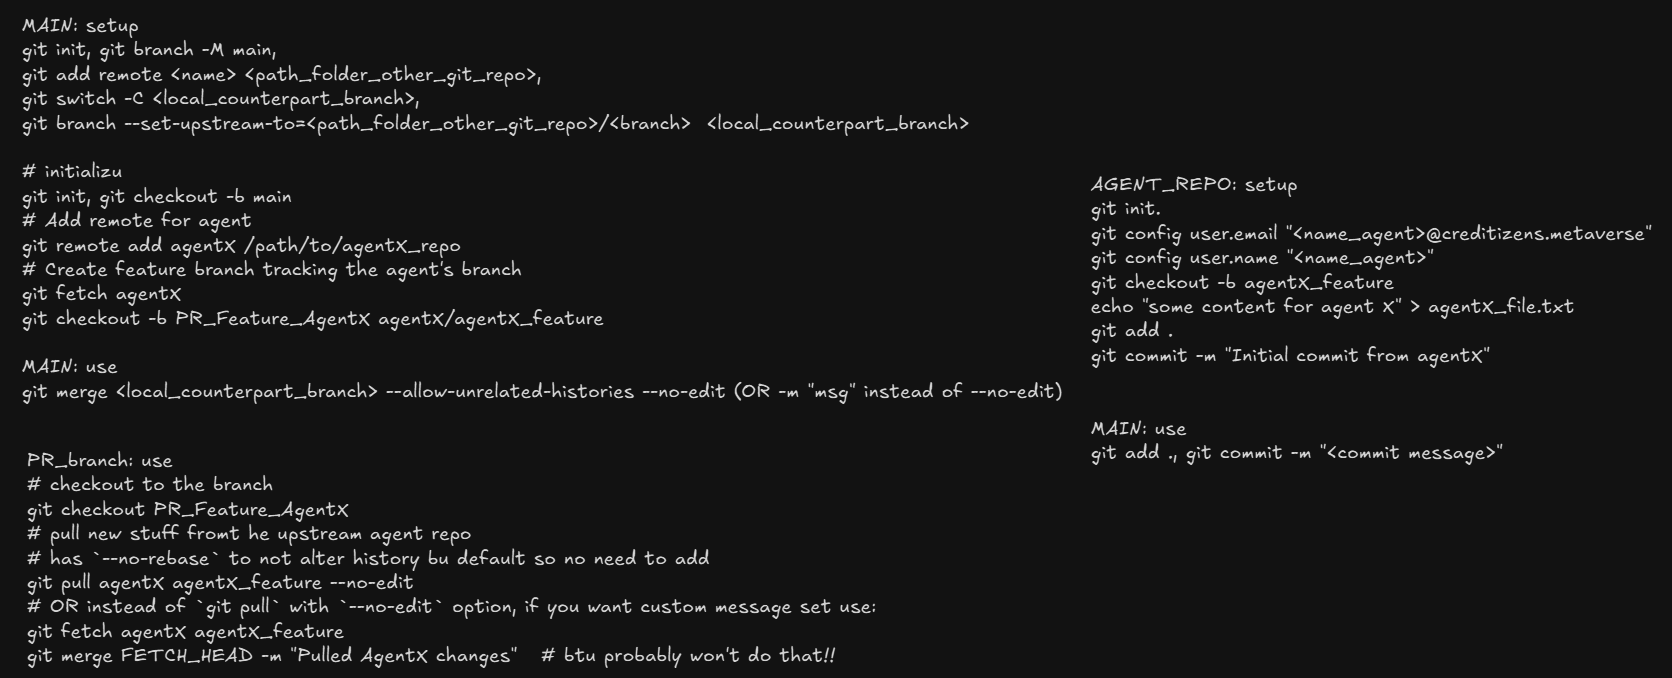
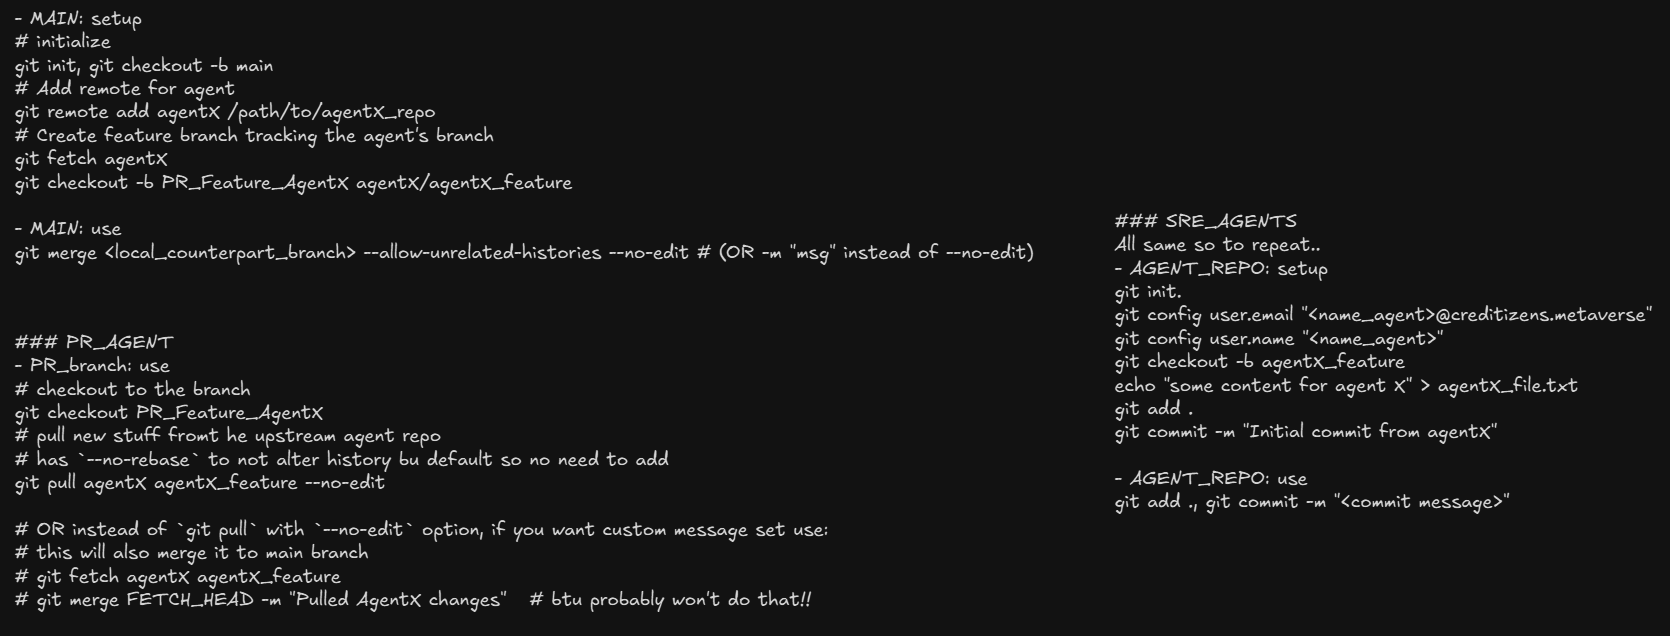
added notes and dis test of git flow and works fine, also still wondering if doing it im Rust or not?

Changed region(s): [[0.0, 0.239, 0.9964, 0.9858], [0.0, 0.0, 0.6228, 0.478], [0.6539, 0.7469, 0.903, 0.8066]]

diff --git a/notes.md b/notes.md
@@ -9,13 +9,13 @@ The workflow stops when the agent team has created the application.
 
 ## RULES
 - `Worker Git Agents`:
-  - have knowledge about project objective and their piece of work and how it plugges with others works.
+  - have knowledge about project objective and their piece of work and how it plug with others works.
   - just working in their branch and adding work and committing work. **NO PUSH**
   - doesn't know about other branches and other agents existance
   - Notifies the `PR Agents` after each commit.
   - Have their own git repo folder and working inside that one
 - `PR Agents`:
-  -  have knowledge about project objective and their piece of work and how it plugges with others works.
+  - have knowledge about project objective and their piece of work and how it plugges with others works.
   - know only their counterpart `upstream` `Worker Git Agent` and pull the work to review it
   - when good: notifies the `Main Agent` to merge the `Worker Git Agent` work.
   - when not good: notifies the `Worker Git Agent` which will modify appropriately and commit/notify again
@@ -66,6 +66,7 @@ git checkout PR_Feature_AgentX
 git pull agentX agentX_feature --no-edit 
 
 # OR instead of `git pull` with `--no-edit` option, if you want custom message set use:
+# this will merge it to `main` branch as well
 # git fetch agentX agentX_feature
 # git merge FETCH_HEAD -m "Pulled AgentX changes"   # btu probably won't do that!!
 ```
@@ -89,5 +90,19 @@ git add ., git commit -m "<commit message>"
 ```
 
 
+## Discord OutBound Messages Webhook
+source:[Get messages from Discord Sent to App.. Outbound...](https://discord.com/developers/docs/interactions/receiving-and-responding#receiving-an-interaction)
 
+## Project Diagram Plan
+source: [diagram of project but have pictures already screenshot](https://excalidraw.com/#json=vG0g5K8Lsu8KzCVmBh52N,Nud51HI7opt692OI9FBJjw)
 
+## Cerebras inference url (use Curl command doc so easy to Rustify)
+source: [documentation Cerebras](https://inference-docs.cerebras.ai/api-reference/chat-completions)
+source: [models overview](https://inference-docs.cerebras.ai/api-reference/models)
+
+## Rust dependencies
+- `Serde`
+- `Tokio`
+- `Reqwest`
+- `Anyhow`
+- `Thiserror`
